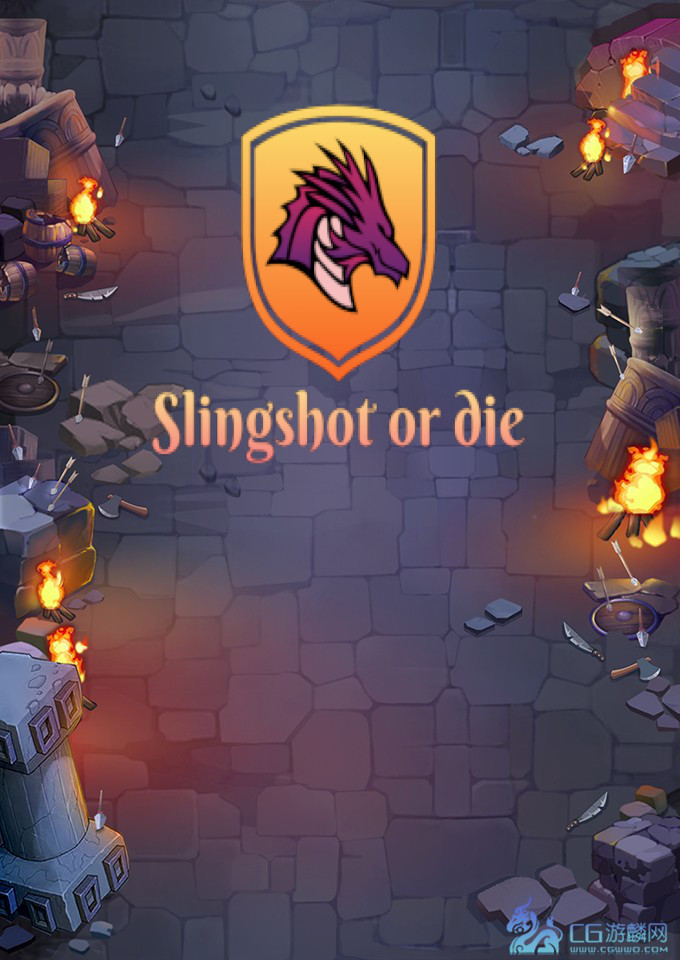
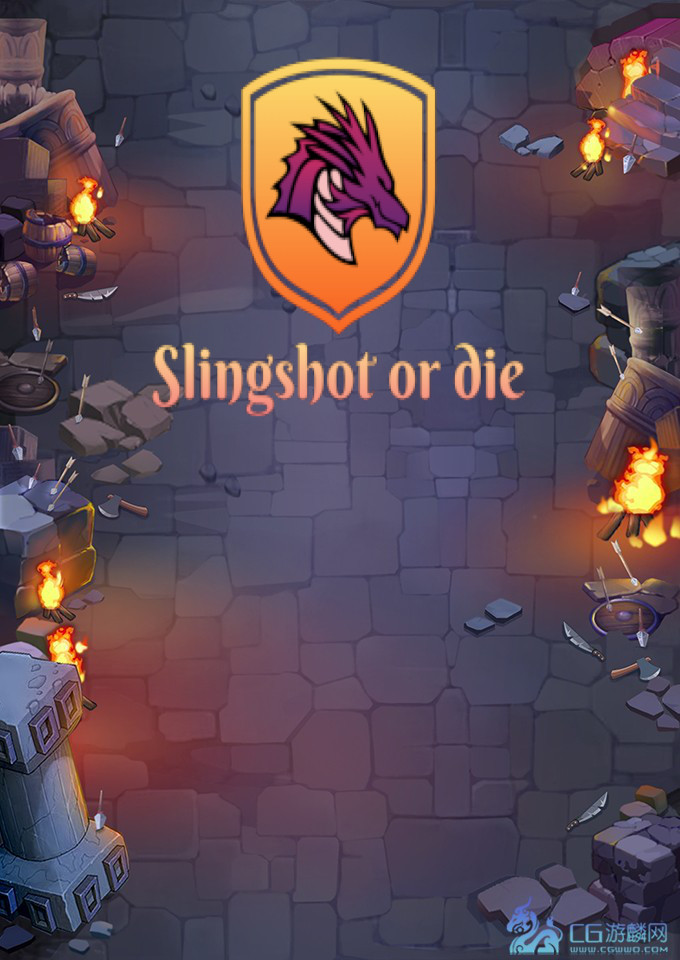
restart game fixed

Changed region(s): [[0.2162, 0.0625, 0.7721, 0.5]]

diff --git a/js/game.js b/js/game.js
@@ -34,8 +34,7 @@ const appGame = {
         this.ctx = this.canvasDOM.getContext('2d')
         this.setDimensions()
         this.printStartScreen()
-        this.createSlingshot()
-        this.setEventListeners()
+        this.canvasDOM.addEventListener('click', e => { !this.frames && this.startGame() })
     },
     printStartScreen() {
         this.startImage = new Image()
@@ -45,20 +44,19 @@ const appGame = {
             this.ctx.textAlign = 'center'
             this.ctx.fillStyle = 'rgba(200,200,200, 0.9)'
             this.ctx.font = '17px "Press Start 2P"'
-            this.ctx.fillText(`It's simple, you have THE Holy Slingshot!`, this.canvasSize.w / 2, 620)
-            this.ctx.fillText(`blessed by Archbishop Germán`, this.canvasSize.w / 2, 660)
-            this.ctx.fillText(`and Father Teo.`, this.canvasSize.w / 2, 700)
-            this.ctx.fillText(`Use it to kill dragons`, this.canvasSize.w / 2, 760)
-            this.ctx.fillText(`and save innocents.`, this.canvasSize.w / 2, 800)
+            this.ctx.fillText(`It's simple, you have THE Holy Slingshot!`, this.canvasSize.w / 2, Math.floor(this.canvasSize.h * 2 / 3) - 40)
+            this.ctx.fillText(`Blessed by Archbishop Germán`, this.canvasSize.w / 2, Math.floor(this.canvasSize.h * 2 / 3))
+            this.ctx.fillText(`and Father Teo.`, this.canvasSize.w / 2, Math.floor(this.canvasSize.h * 2 / 3) + 40)
+            this.ctx.fillText(`Use it to kill dragons`, this.canvasSize.w / 2, Math.floor(this.canvasSize.h * 2 / 3) + 100)
+            this.ctx.fillText(`and save innocents.`, this.canvasSize.w / 2, Math.floor(this.canvasSize.h * 2 / 3) + 140)
             this.ctx.font = '25px "Press Start 2P"'
-            this.ctx.fillText(`Click when ready!`, this.canvasSize.w / 2, 880)
+            this.ctx.fillText(`Click when ready!`, this.canvasSize.w / 2, Math.floor(this.canvasSize.h * 2 / 3) + 220)
             this.ctx.textAlign = 'left'
             this.ctx.fillStyle = 'white'
         }
     },
     setEventListeners() {
         this.slingShot.setEventListeners()
-        this.canvasDOM.addEventListener('click', e => { !this.frames && this.startGame() })
     },
     setDimensions() {
         this.canvasSize = {
@@ -70,6 +68,8 @@ const appGame = {
     },
     startGame() {
         sounds.gameStart.play()
+        this.createSlingshot()
+        this.setEventListeners()
         this.interval = setInterval(() => {
             this.frames++
             this.clearScreen()
@@ -77,9 +77,9 @@ const appGame = {
             this.drawAll()
             this.animateAll()
             this.updateScore(this.isCollision())
-            this.isGameOver()
             this.clearCharacter()
             this.clearBombs()
+            this.isGameOver()
         }, 40)
     },
     drawAll() {
@@ -258,24 +258,24 @@ const appGame = {
             this.ctx.fillText(`Click to play again!`, this.canvasSize.w / 2, 500)
             this.ctx.textAlign = 'left'
             this.ctx.fillStyle = 'white'
-            // this.resetGame()
+            this.resetGame()
         }
     },
-    // resetGame() {
-    //     this.wave = 1
-    //     this.characters = []
-    //     this.bloodSpills = []
-    //     this.explosions = []
-    //     this.cracks = []
-    //     this.isCollisionDistance = undefined
-    //     this.enemiesFrequency = 80
-    //     this.frames = 0
-    //     this.endWaveFrames = 0
-    //     this.waveBanners = []
-    //     this.score = 0
-    //     this.record = 0
-    //     this.lives = 5
-    //     this.hearts = []
-    //     this.setEventListeners()
-    // }
+    resetGame() {
+        this.slingShot = undefined
+        this.wave = 1
+        this.characters = []
+        this.bloodSpills = []
+        this.explosions = []
+        this.cracks = []
+        this.isCollisionDistance = undefined
+        this.enemiesFrequency = 80
+        this.frames = 0
+        this.endWaveFrames = 0
+        this.waveBanners = []
+        this.score = 0
+        this.record = 0
+        this.lives = 5
+        this.hearts = []
+    }
 }
